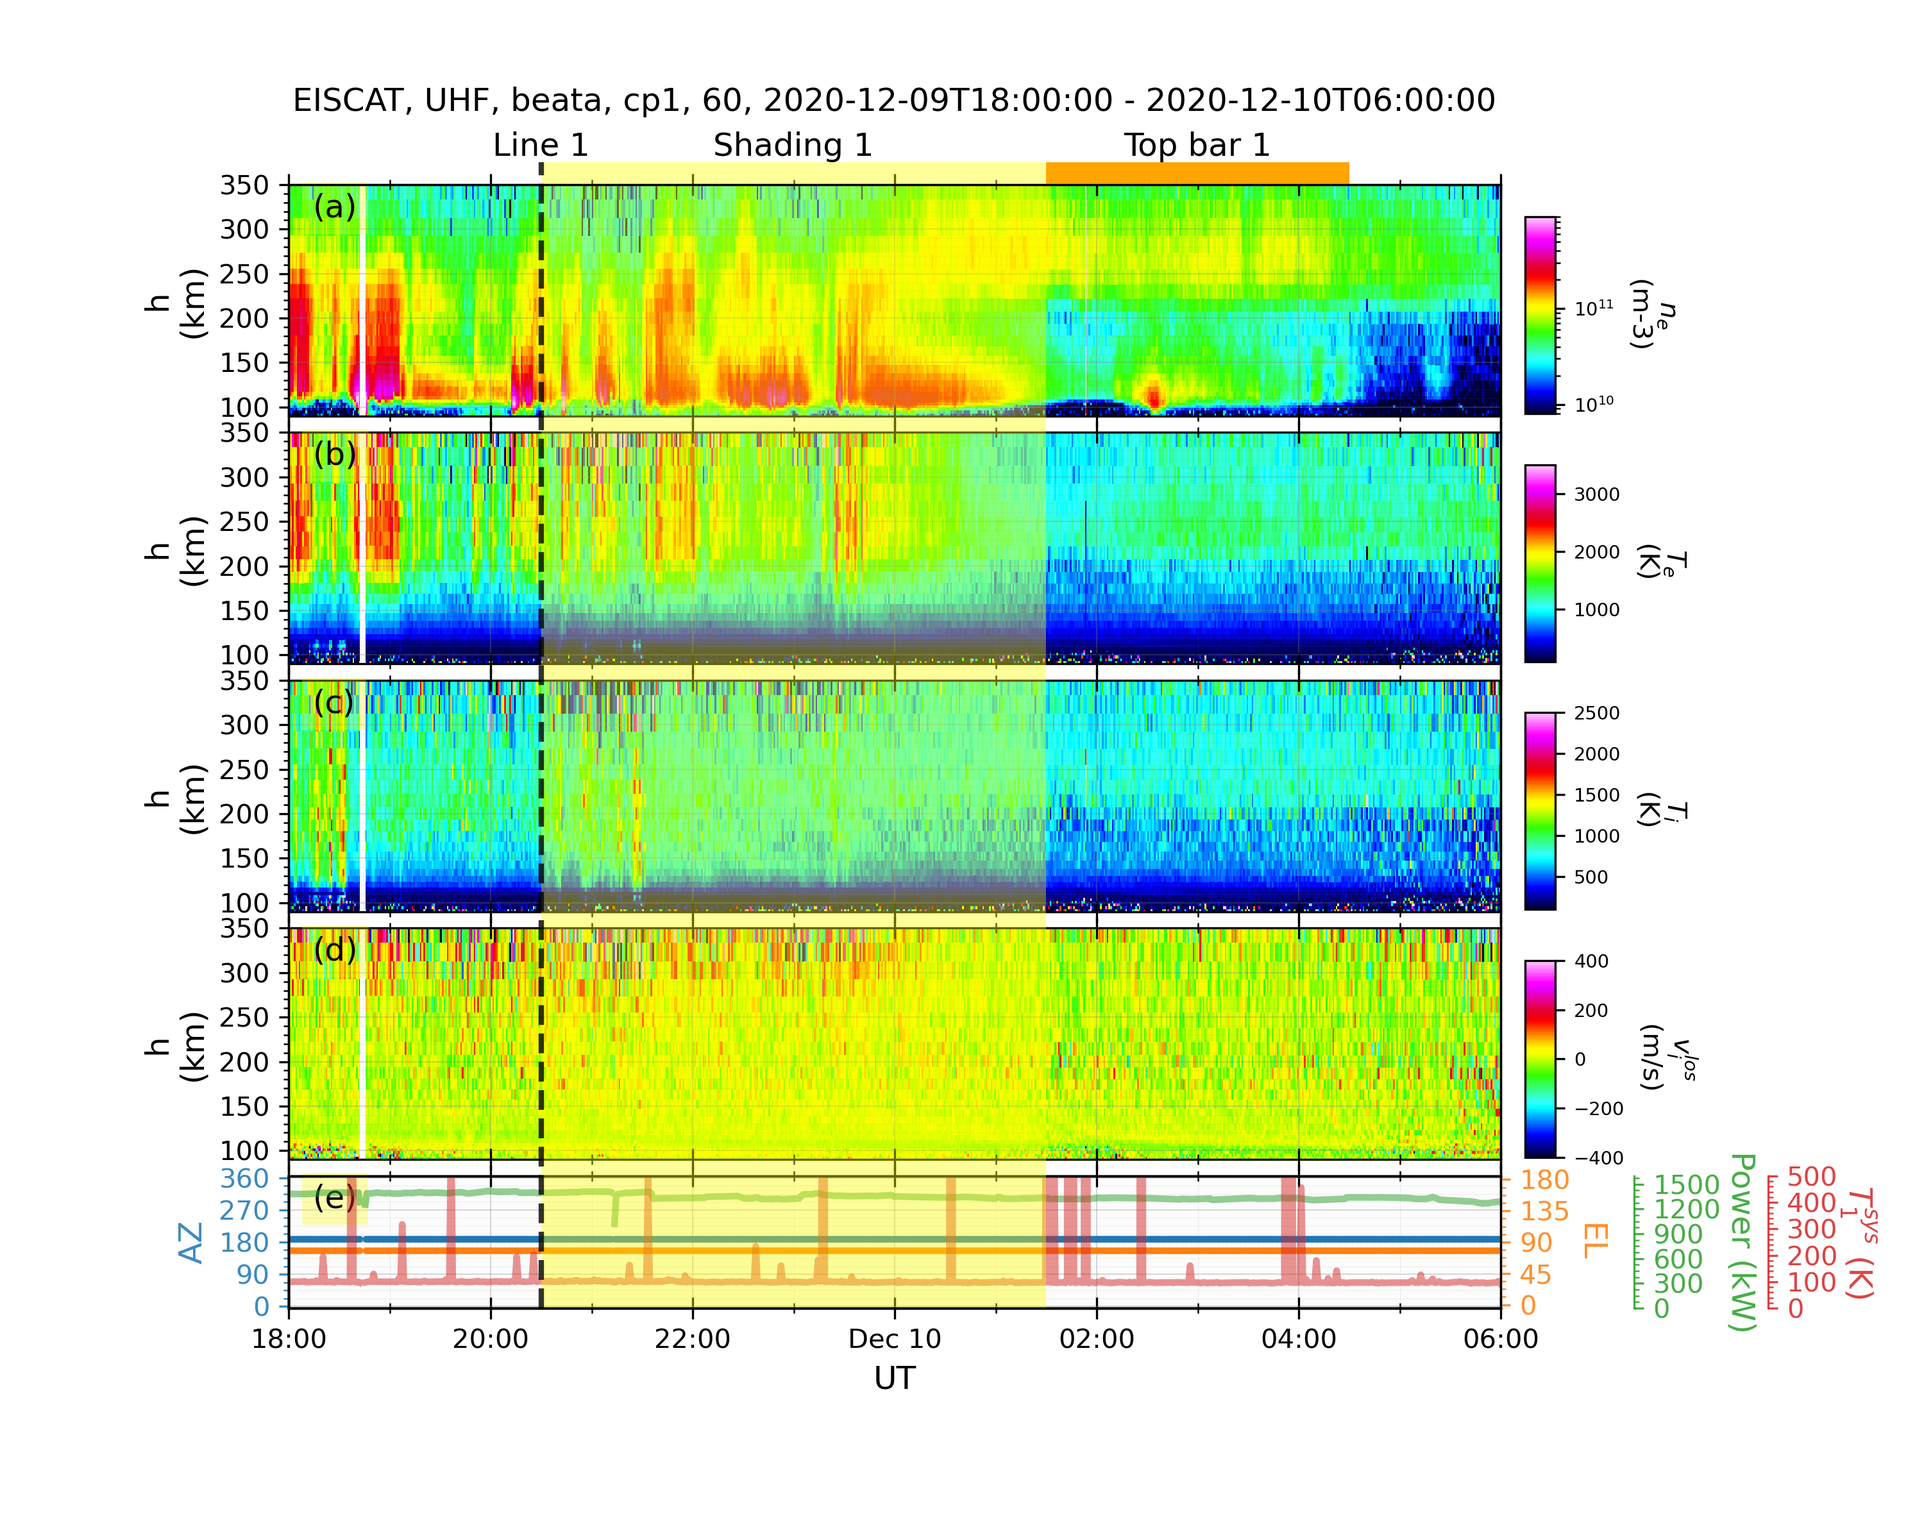
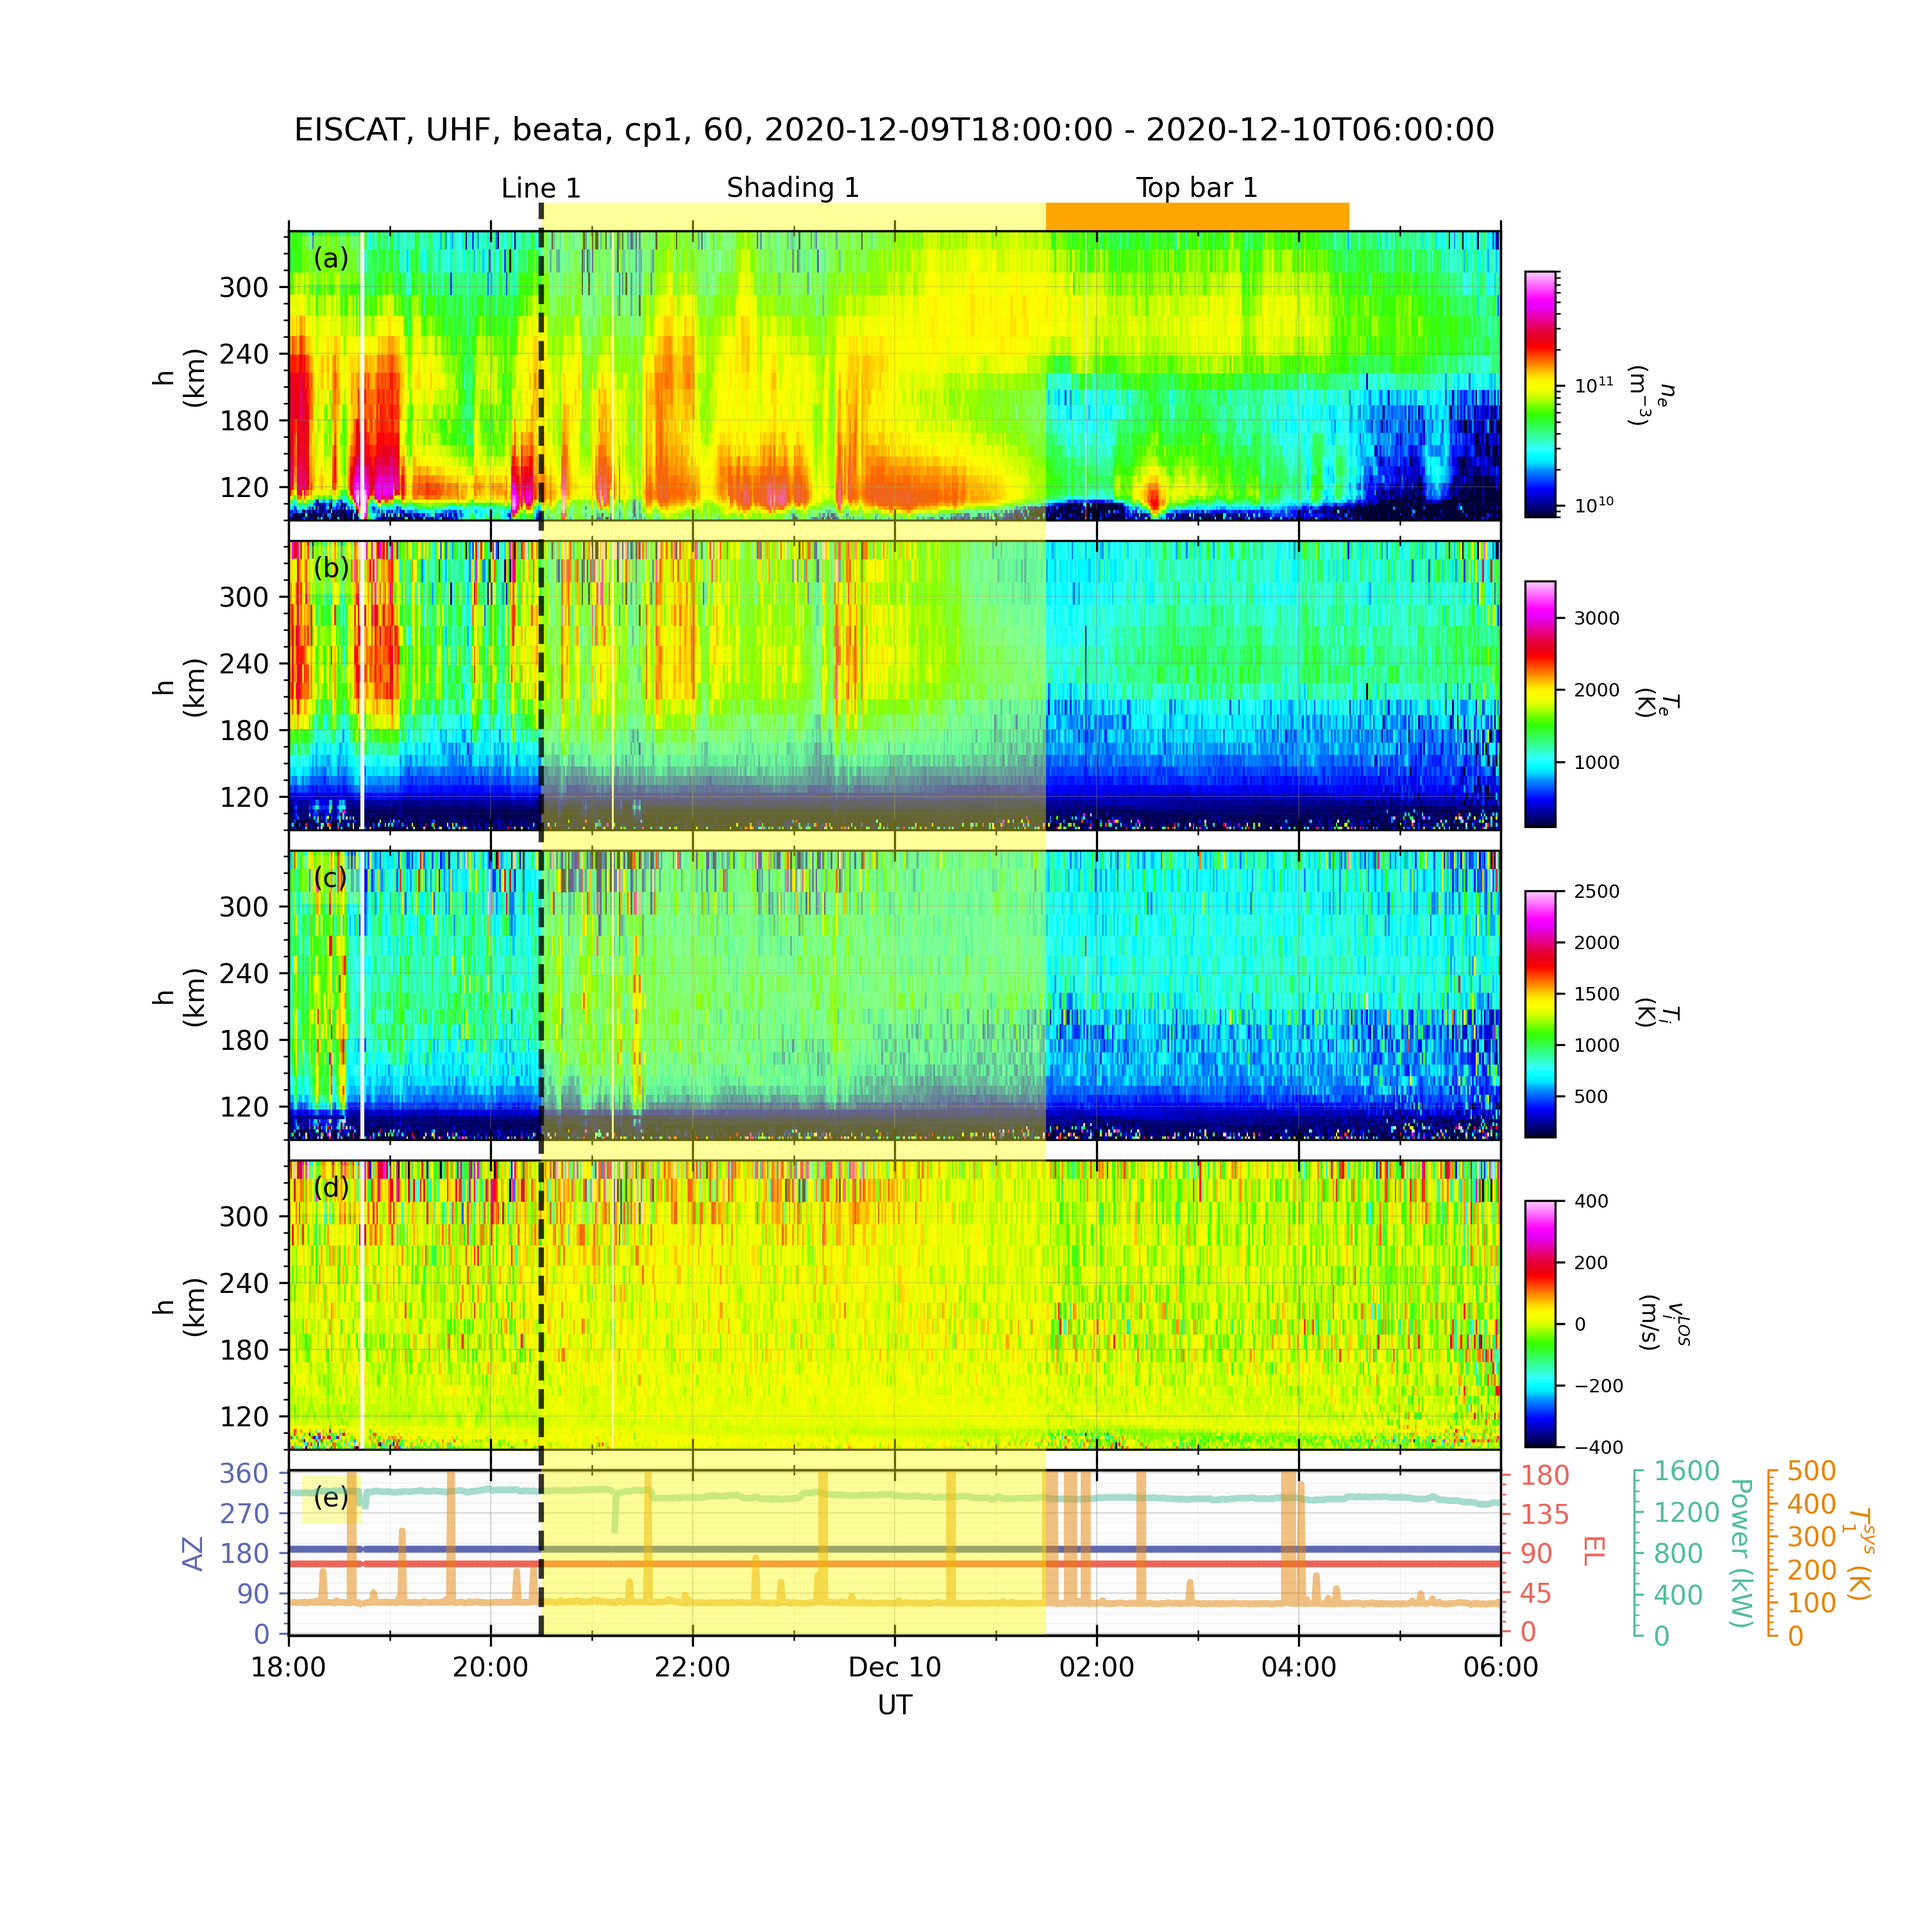
update

diff --git a/geospacelab/visualization/mpl/axis_ticks.py b/geospacelab/visualization/mpl/axis_ticks.py
@@ -59,10 +59,15 @@ class DatetimeMinorLocator(mdates.AutoDateLocator):
 
 
 class DatetimeMajorFormatter(mdates.AutoDateFormatter):
-    def __init__(self, locator, scaled: dict or None = None, tz=None, defaultfmt='%Y-%m-%d', *, usetex=True):
+    def __init__(self, locator, scaled: dict or None = None, tz=None, defaultfmt='%Y-%m-%d', *, usetex=True, same_format=False):
         super().__init__(locator, tz=None, defaultfmt=defaultfmt, usetex=usetex)
-        self.scaled[1 / HOURS_PER_DAY] = formatter_hour_per_day
-        self.scaled[1 / MINUTES_PER_DAY] = formatter_minute_per_day
+
+        if not same_format:
+            self.scaled[1 / HOURS_PER_DAY] = formatter_hour_per_day
+            self.scaled[1 / MINUTES_PER_DAY] = formatter_minute_per_day
+        else:
+            self.scaled[1 / HOURS_PER_DAY] = formatter_hour_per_day_1
+            self.scaled[1 / MINUTES_PER_DAY] = formatter_minute_per_day_1
         if scaled is not None:
            self.scaled.update(**scaled)
 
@@ -86,6 +91,22 @@ def formatter_minute_per_day(x, pos):
         fmt1 = "%b %d"
     else:
         fmt1 = "%H:%M"
+    return dtx.strftime(fmt1)
+
+
+def formatter_hour_per_day_1(x, pos):
+    dtx = mpl.dates.num2date(x)
+    dtx = dtx.replace(tzinfo=None)
+    delta = dtx - dt.datetime(dtx.year, dtx.month, dtx.day)
+    fmt1 = "%H:%M"
+    return dtx.strftime(fmt1)
+
+
+def formatter_minute_per_day_1(x, pos):
+    dtx = mpl.dates.num2date(x)
+    dtx = dtx.replace(tzinfo=None)
+    delta = dtx - dt.datetime(dtx.year, dtx.month, dtx.day)
+    fmt1 = "%H:%M"
     return dtx.strftime(fmt1)
 
 

diff --git a/geospacelab/datahub/sources/cdaweb/omni/__init__.py b/geospacelab/datahub/sources/cdaweb/omni/__init__.py
@@ -213,8 +213,10 @@ class Dataset(datahub.DatasetSourced):
         """
         Bz = kwargs['Bz']
         By = kwargs['By']
-        Bt = np.sqrt(By**2+Bz**2);
-        ca = np.sign(By) * (np.pi/2 - np.arcsin(Bz / Bt))
+        Bt = np.sqrt(By**2+Bz**2)
+        sign_By = np.sign(By)
+        sign_By[sign_By == 0] = 1.
+        ca = sign_By * (np.pi/2 - np.arcsin(Bz / Bt))
         ca = np.mod(ca, 2 * np.pi)
 
         if not to_radian:
@@ -236,8 +238,10 @@ class Dataset(datahub.DatasetSourced):
         """
         By = kwargs['By']
         Bx = kwargs['Bx']
-        Bt = np.sqrt(By**2+Bx**2);
-        az = np.sign(Bx) * (np.pi/2 - np.arcsin(By / Bt))
+        Bt = np.sqrt(By**2+Bx**2)
+        sign_Bx = np.sign(Bx)
+        sign_Bx[sign_Bx == 0] = 1.
+        az = sign_Bx * (np.pi/2 - np.arcsin(By / Bt))
         az = np.mod(az, 2 * np.pi)
 
         if not to_radian:
@@ -259,8 +263,10 @@ class Dataset(datahub.DatasetSourced):
         """
         Bx = kwargs['Bx']
         Bz = kwargs['Bz']
-        Bt = np.sqrt(Bx ** 2 + Bz ** 2);
-        el = np.sign(Bz) * (np.pi / 2 - np.arcsin(Bx / Bt))
+        Bt = np.sqrt(Bx ** 2 + Bz ** 2)
+        sign_Bz = np.sign(Bz)
+        sign_Bz[sign_Bz == 0] = 1.
+        el = sign_Bz * (np.pi / 2 - np.arcsin(Bx / Bt))
         el = np.mod(el, 2 * np.pi)
 
         if not to_radian:

diff --git a/geospacelab/visualization/mpl/dashboards.py b/geospacelab/visualization/mpl/dashboards.py
@@ -51,6 +51,7 @@ class TSDashboard(Dashboard):
             time_gap=True,
             timeline_major='UT',
             timeline_extra_labels=None,
+            timeline_same_format=False,
             **kwargs
     ):
         self.panel_layouts = []
@@ -60,6 +61,7 @@ class TSDashboard(Dashboard):
         figure_config = self._default_figure_config if figure_config is None else figure_config
         self.time_gap = time_gap
         self.timeline_major = timeline_major
+        self.timeline_same_format = timeline_same_format
         self.timeline_extra_labels = timeline_extra_labels
         kwargs.update(visual='on')
 
@@ -130,7 +132,7 @@ class TSDashboard(Dashboard):
                 panel_config.update(sharex=self.panels[0]())
             if ind == len(self._panels_configs.keys())-1:
                 bottom_panel = True
-                panel_config.update(timeline_extra_labels=self.timeline_extra_labels)
+                panel_config.update(timeline_extra_labels=self.timeline_extra_labels, timeline_same_format=self.timeline_same_format)
             else:
                 bottom_panel = False
             panel_config.update(bottom_panel=bottom_panel)

diff --git a/geospacelab/visualization/mpl/panels.py b/geospacelab/visualization/mpl/panels.py
@@ -63,7 +63,7 @@ class TSPanel(Panel):
             self, *args, 
             dt_fr=None, dt_to=None, figure=None, from_subplot=True,
             bottom_panel=True, timeline_reverse=False, timeline_extra_labels=None,
-            time_gap=True, time_res=None,
+            time_gap=True, time_res=None, timeline_same_format=False,
             **kwargs
     ):
         
@@ -74,6 +74,7 @@ class TSPanel(Panel):
 
         self._xlim = [dt_fr, dt_to]
         self.timeline_reverse = timeline_reverse
+        self.timeline_same_format=timeline_same_format
         self.time_gap = time_gap
         self.time_res = time_res
         if timeline_extra_labels is None:
@@ -337,7 +338,7 @@ class TSPanel(Panel):
         if minticks is None:
             minticks = 4
         majorlocator = DatetimeMajorLocator(maxticks=maxticks, minticks=minticks)
-        majorformatter = DatetimeMajorFormatter(majorlocator)
+        majorformatter = DatetimeMajorFormatter(majorlocator, same_format=self.timeline_same_format)
 
         if not self.bottom_panel:
             majorformatter = mpl_ticker.NullFormatter()

diff --git a/geospacelab/express/eiscat_dashboard.py b/geospacelab/express/eiscat_dashboard.py
@@ -21,7 +21,8 @@ class EISCATDashboard(TSDashboard):
 
         figure = kwargs.pop('figure', 'new')
         figure_config = kwargs.pop('figure_config', {'figsize': (10, 10)})
-        super().__init__(dt_fr=dt_fr, dt_to=dt_to, figure=figure, figure_config=figure_config)
+        timeline_extra_labels = kwargs.pop('timeline_extra_labels', None)
+        super().__init__(dt_fr=dt_fr, dt_to=dt_to, figure=figure, figure_config=figure_config, timeline_extra_labels=timeline_extra_labels)
         self.dock(datasource_contents=['madrigal', 'isr', 'eiscat'], **kwargs)
         self.host_dataset.load_data(load_mode=kwargs['load_mode'])
         # ds_1.list_all_variables()

diff --git a/geospacelab/observatory/site/mixins.py b/geospacelab/observatory/site/mixins.py
@@ -1,0 +1,17 @@
+import datetime
+import numbers
+import numpy as np
+
+
+class LocationMixin:
+
+    def get_lst(self, glon=None, dts=None):
+        if glon is None:
+            glon = self.site.location['GEO_LON']
+        if dts is None:
+            dts = self['DATETIME'].flatten()
+
+        lst = np.array(dt + datetime.timedelta(seconds=int(glon*240)) for dt in dts)
+        var = self.add_variable(var_name='')
+        var.value = lst[:, np.newaxis]
+        var.label = 'LST'

diff --git a/geospacelab/__init__.py b/geospacelab/__init__.py
@@ -6,7 +6,7 @@ __author__ = "Lei Cai"
 __copyright__ = "Copyright 2021, GeospaceLAB"
 __credits__ = ["Lei Cai"]
 __license__ = "BSD-3-Clause License"
-__version__ = "0.7.9"
+__version__ = "0.7.11"
 __maintainer__ = "Lei Cai"
 __email__ = "lei.cai@oulu.fi"
 __status__ = "Developing"
